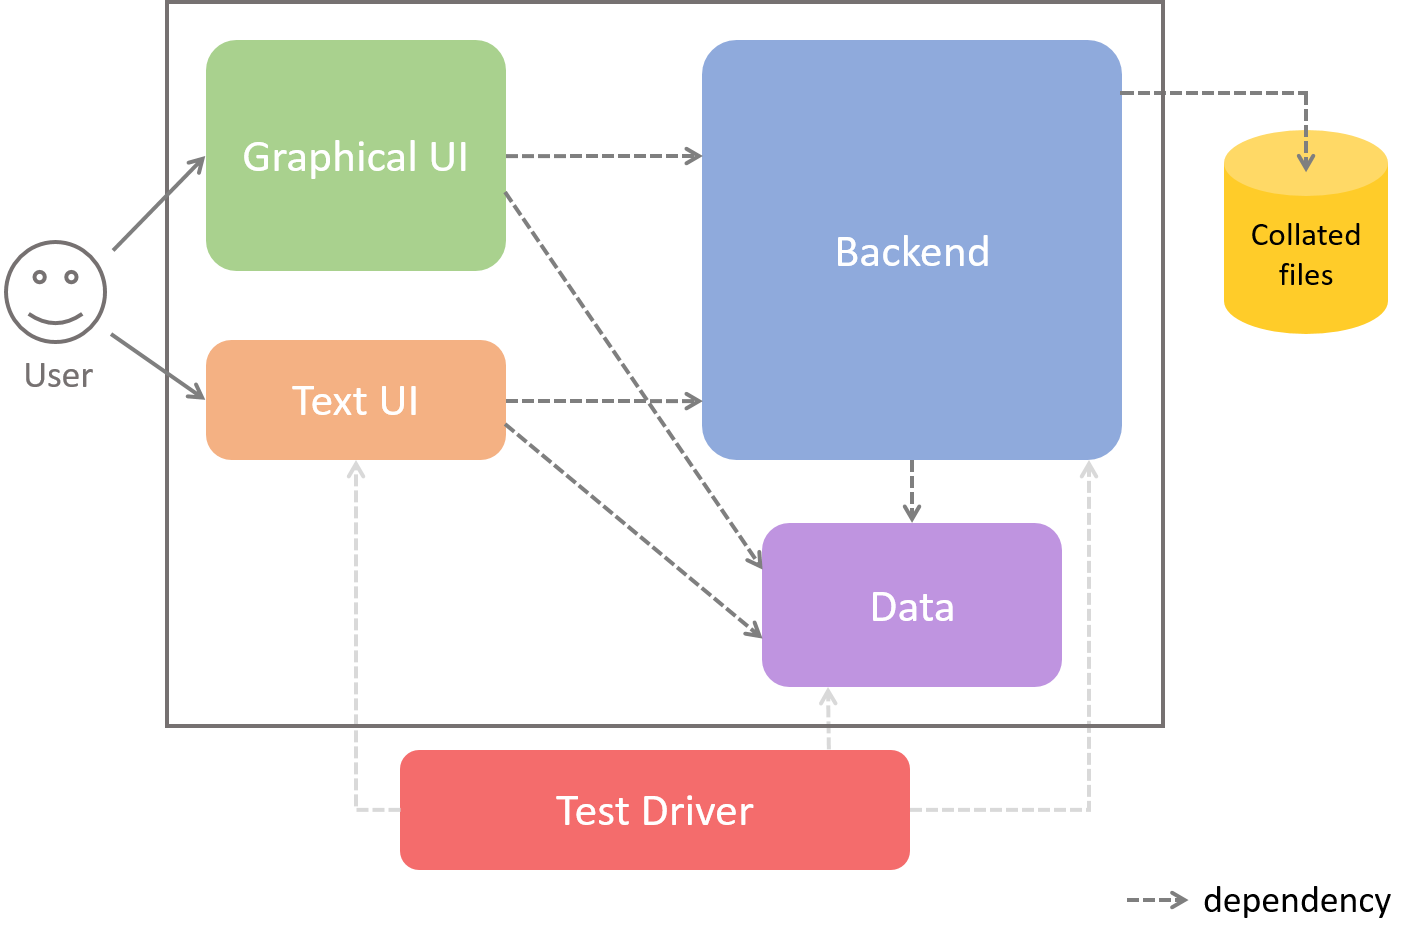
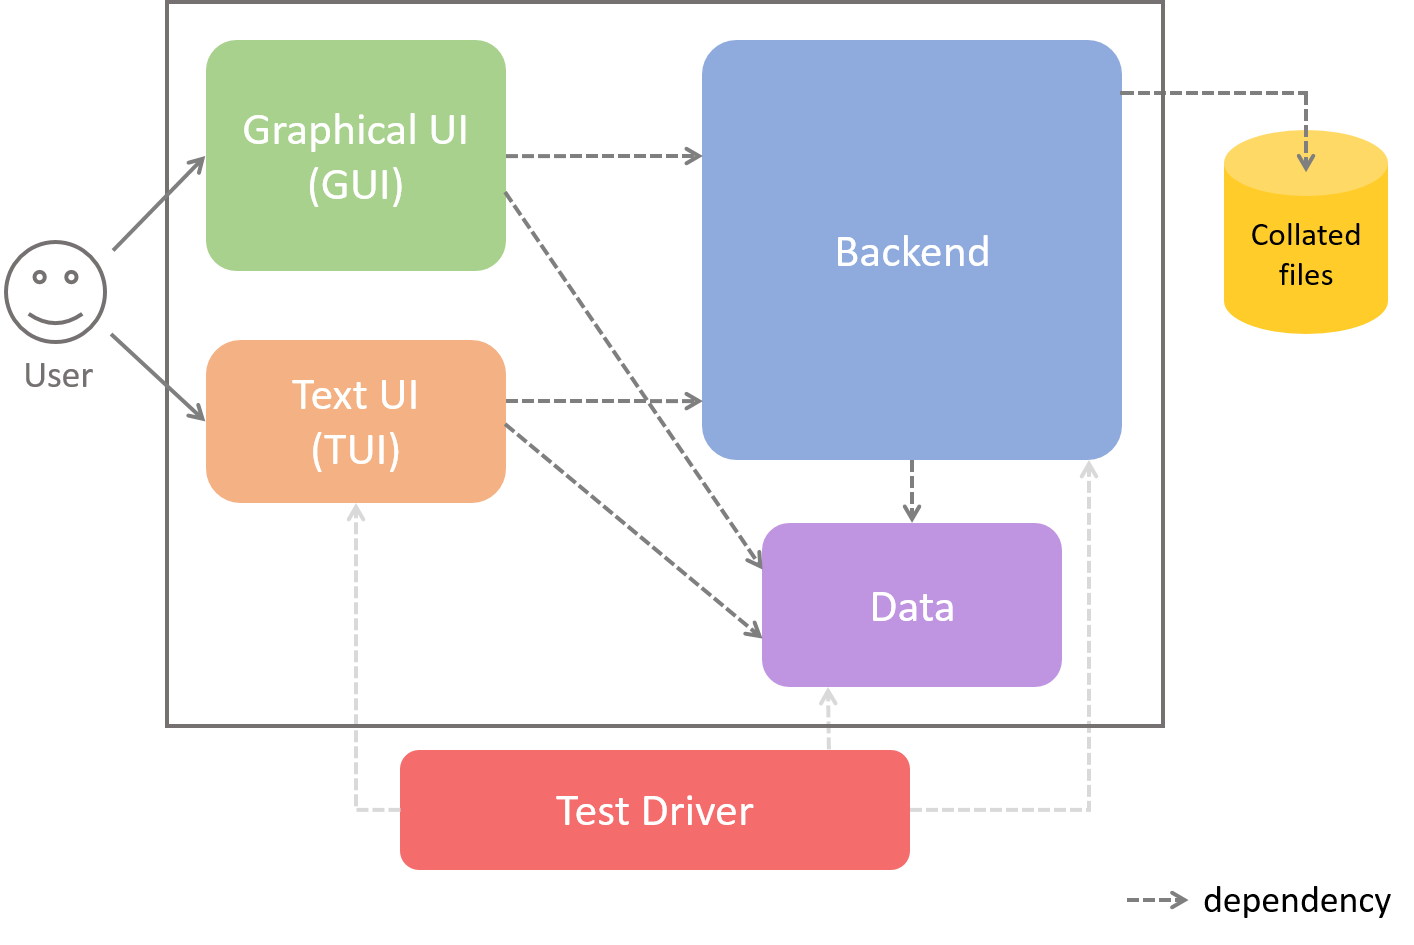
Updated architecture diagram to show GUI and TUI short-forms. Added seq diagram for gui and logic interaction behaviour.

Changed region(s): [[0.1245, 0.3989, 0.3734, 0.5524], [0.1556, 0.1228, 0.3423, 0.2148], [0.0934, 0.3683, 0.1245, 0.3989]]

diff --git a/docs/Developer-Guide.md b/docs/Developer-Guide.md
@@ -207,6 +207,9 @@ Java files that control what users see while the `view` package contains JavaFX'
 describe how to layout JavaFX components. A `stylesheet.css` is also found in the `view` package. 
 This stylesheet customises the appearance and style of JavaFX components.
 
+<img src="images/developer-guide/sequence-diagram-gui-logic.png">
+> Figure 6: Object interactions when a user enters a command through the GUI
+
 Users will enter commands through the `CommandBarController`, which then passes these commands to the `MainApp`. 
 `MainApp` will then call `Logic` in the Backend component to handle the actual execution of these commands.
 
@@ -318,7 +321,7 @@ the layouts of the corresponding `FileStatsItem` objects which will be elaborate
 ## `FileStatsItem` Class
 
 <img src="images/developer-guide/filestatsitem.png" width="600">
-> Figure 6: Appearance of a FileStatsItem
+> Figure 7: Appearance of a FileStatsItem
 
 Each `FileStatsItem` object consists of nine JavaFX components.
 
